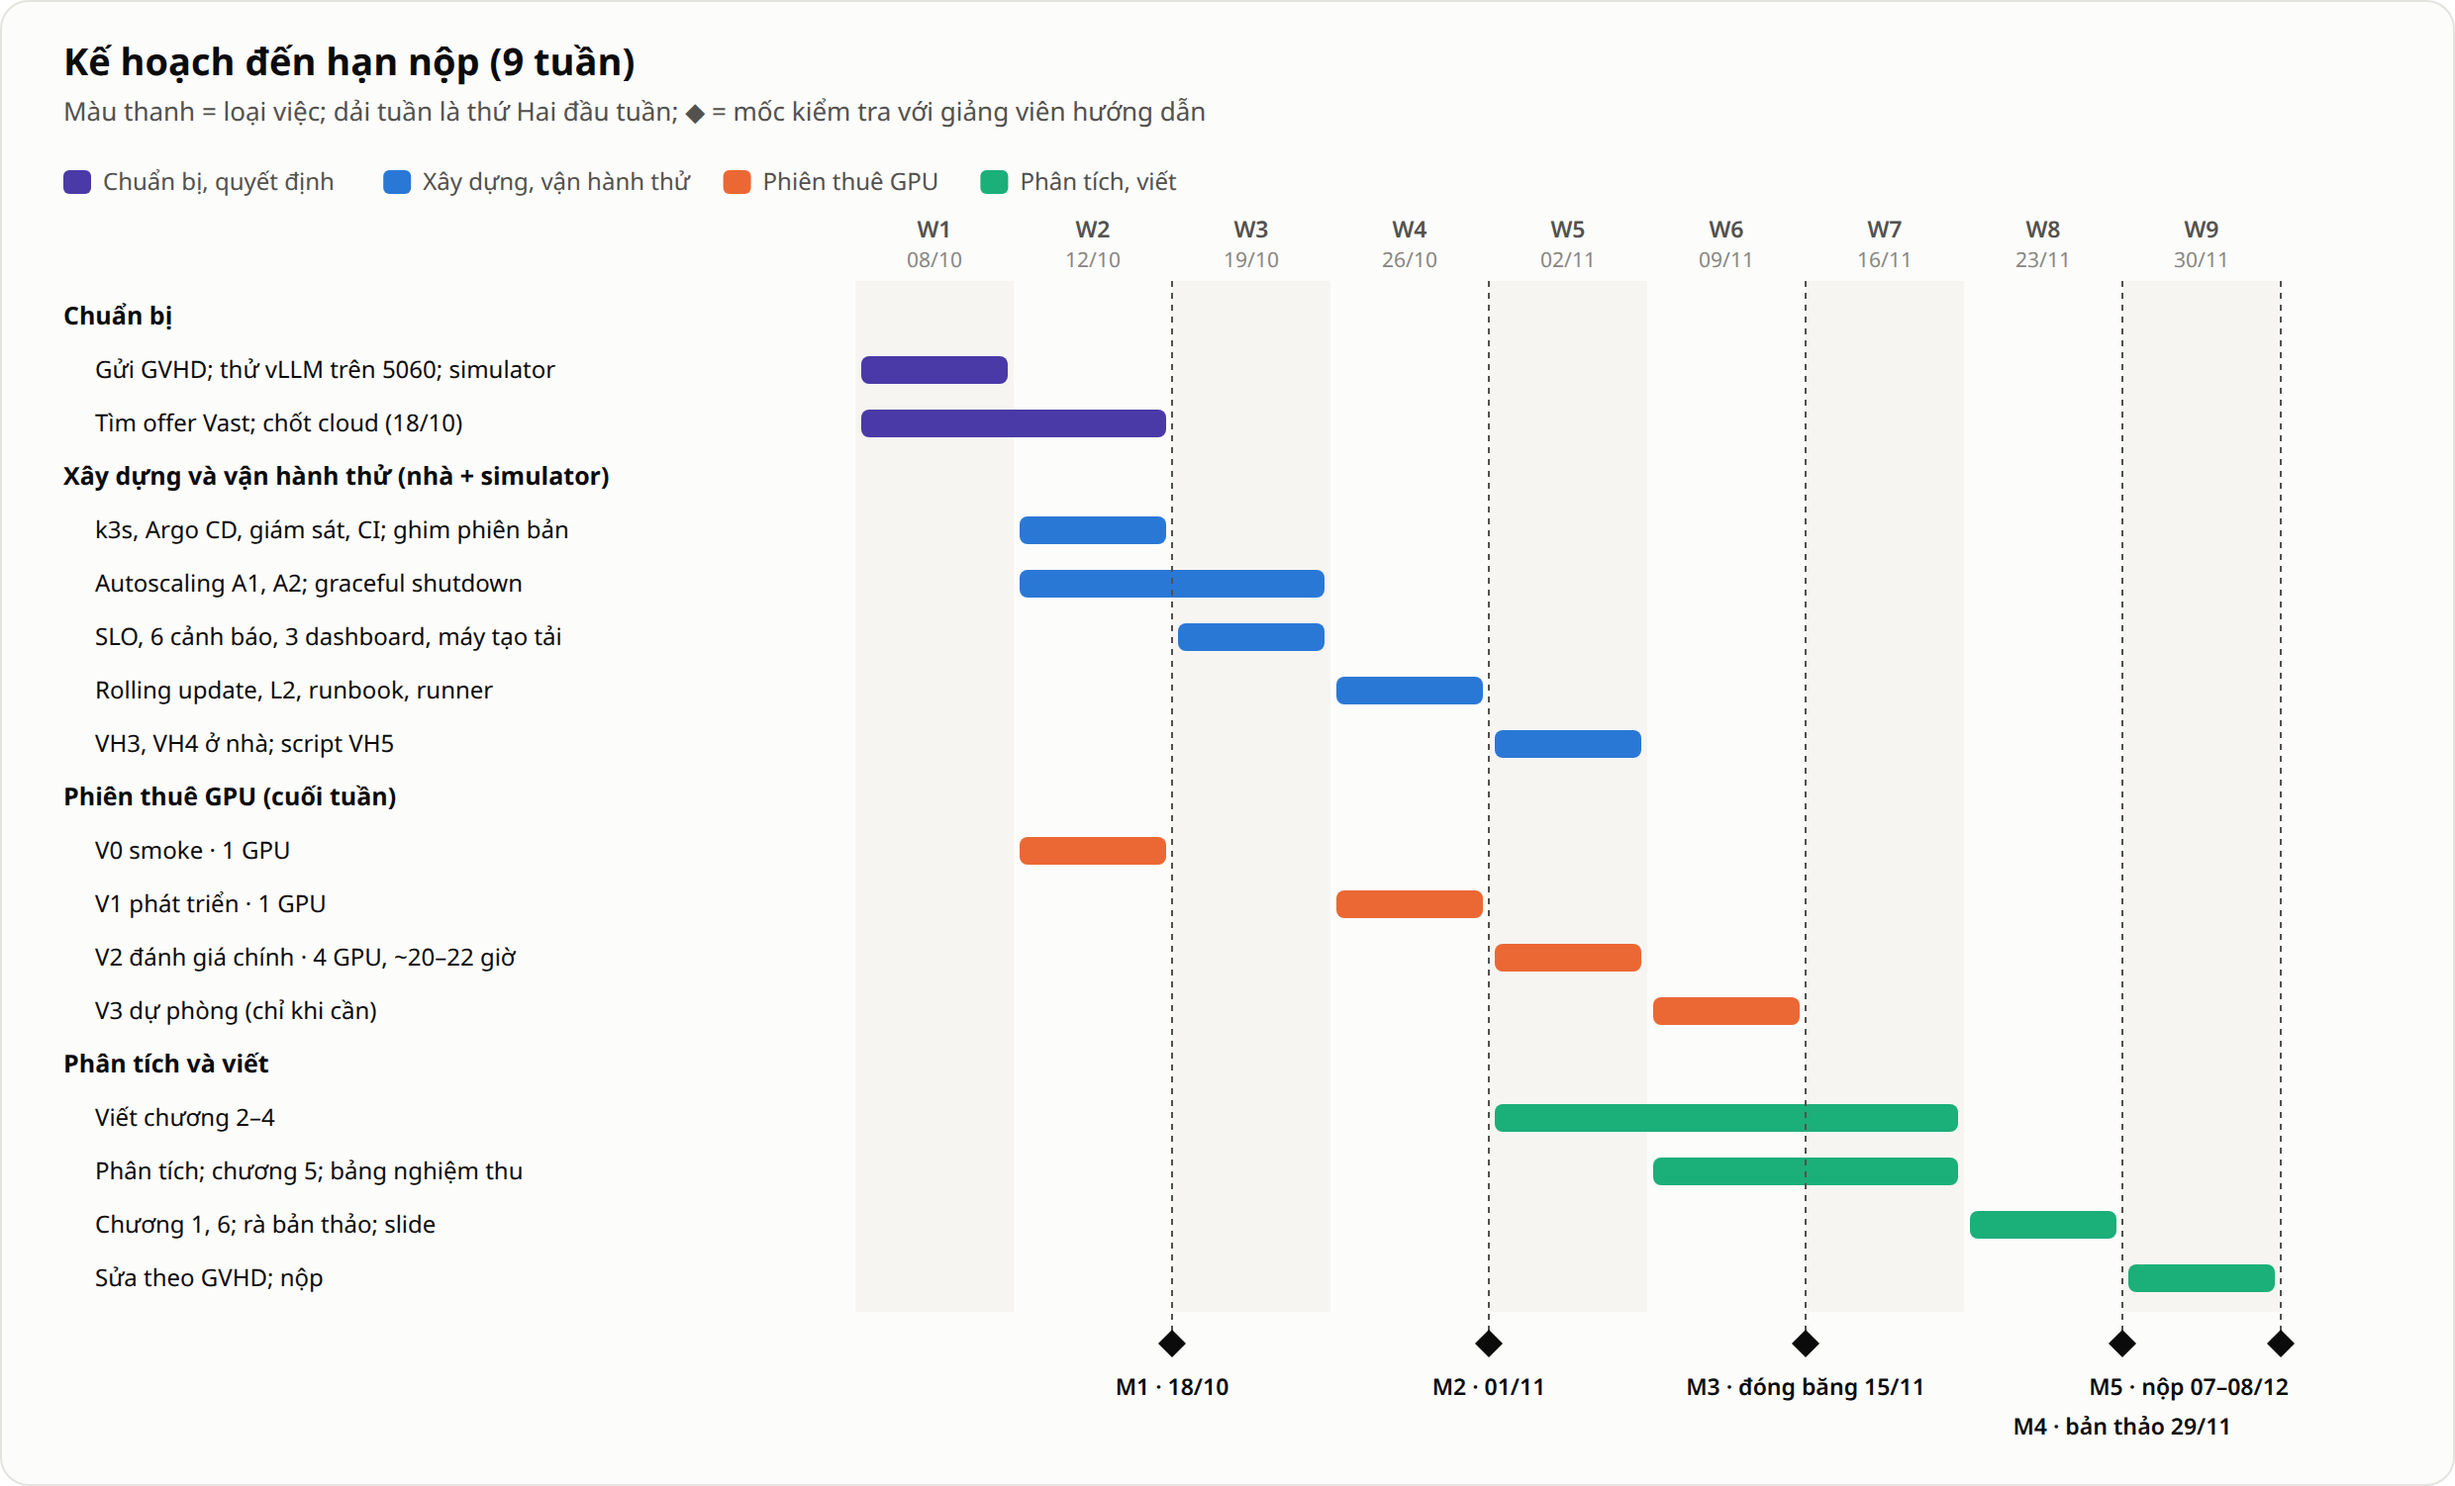
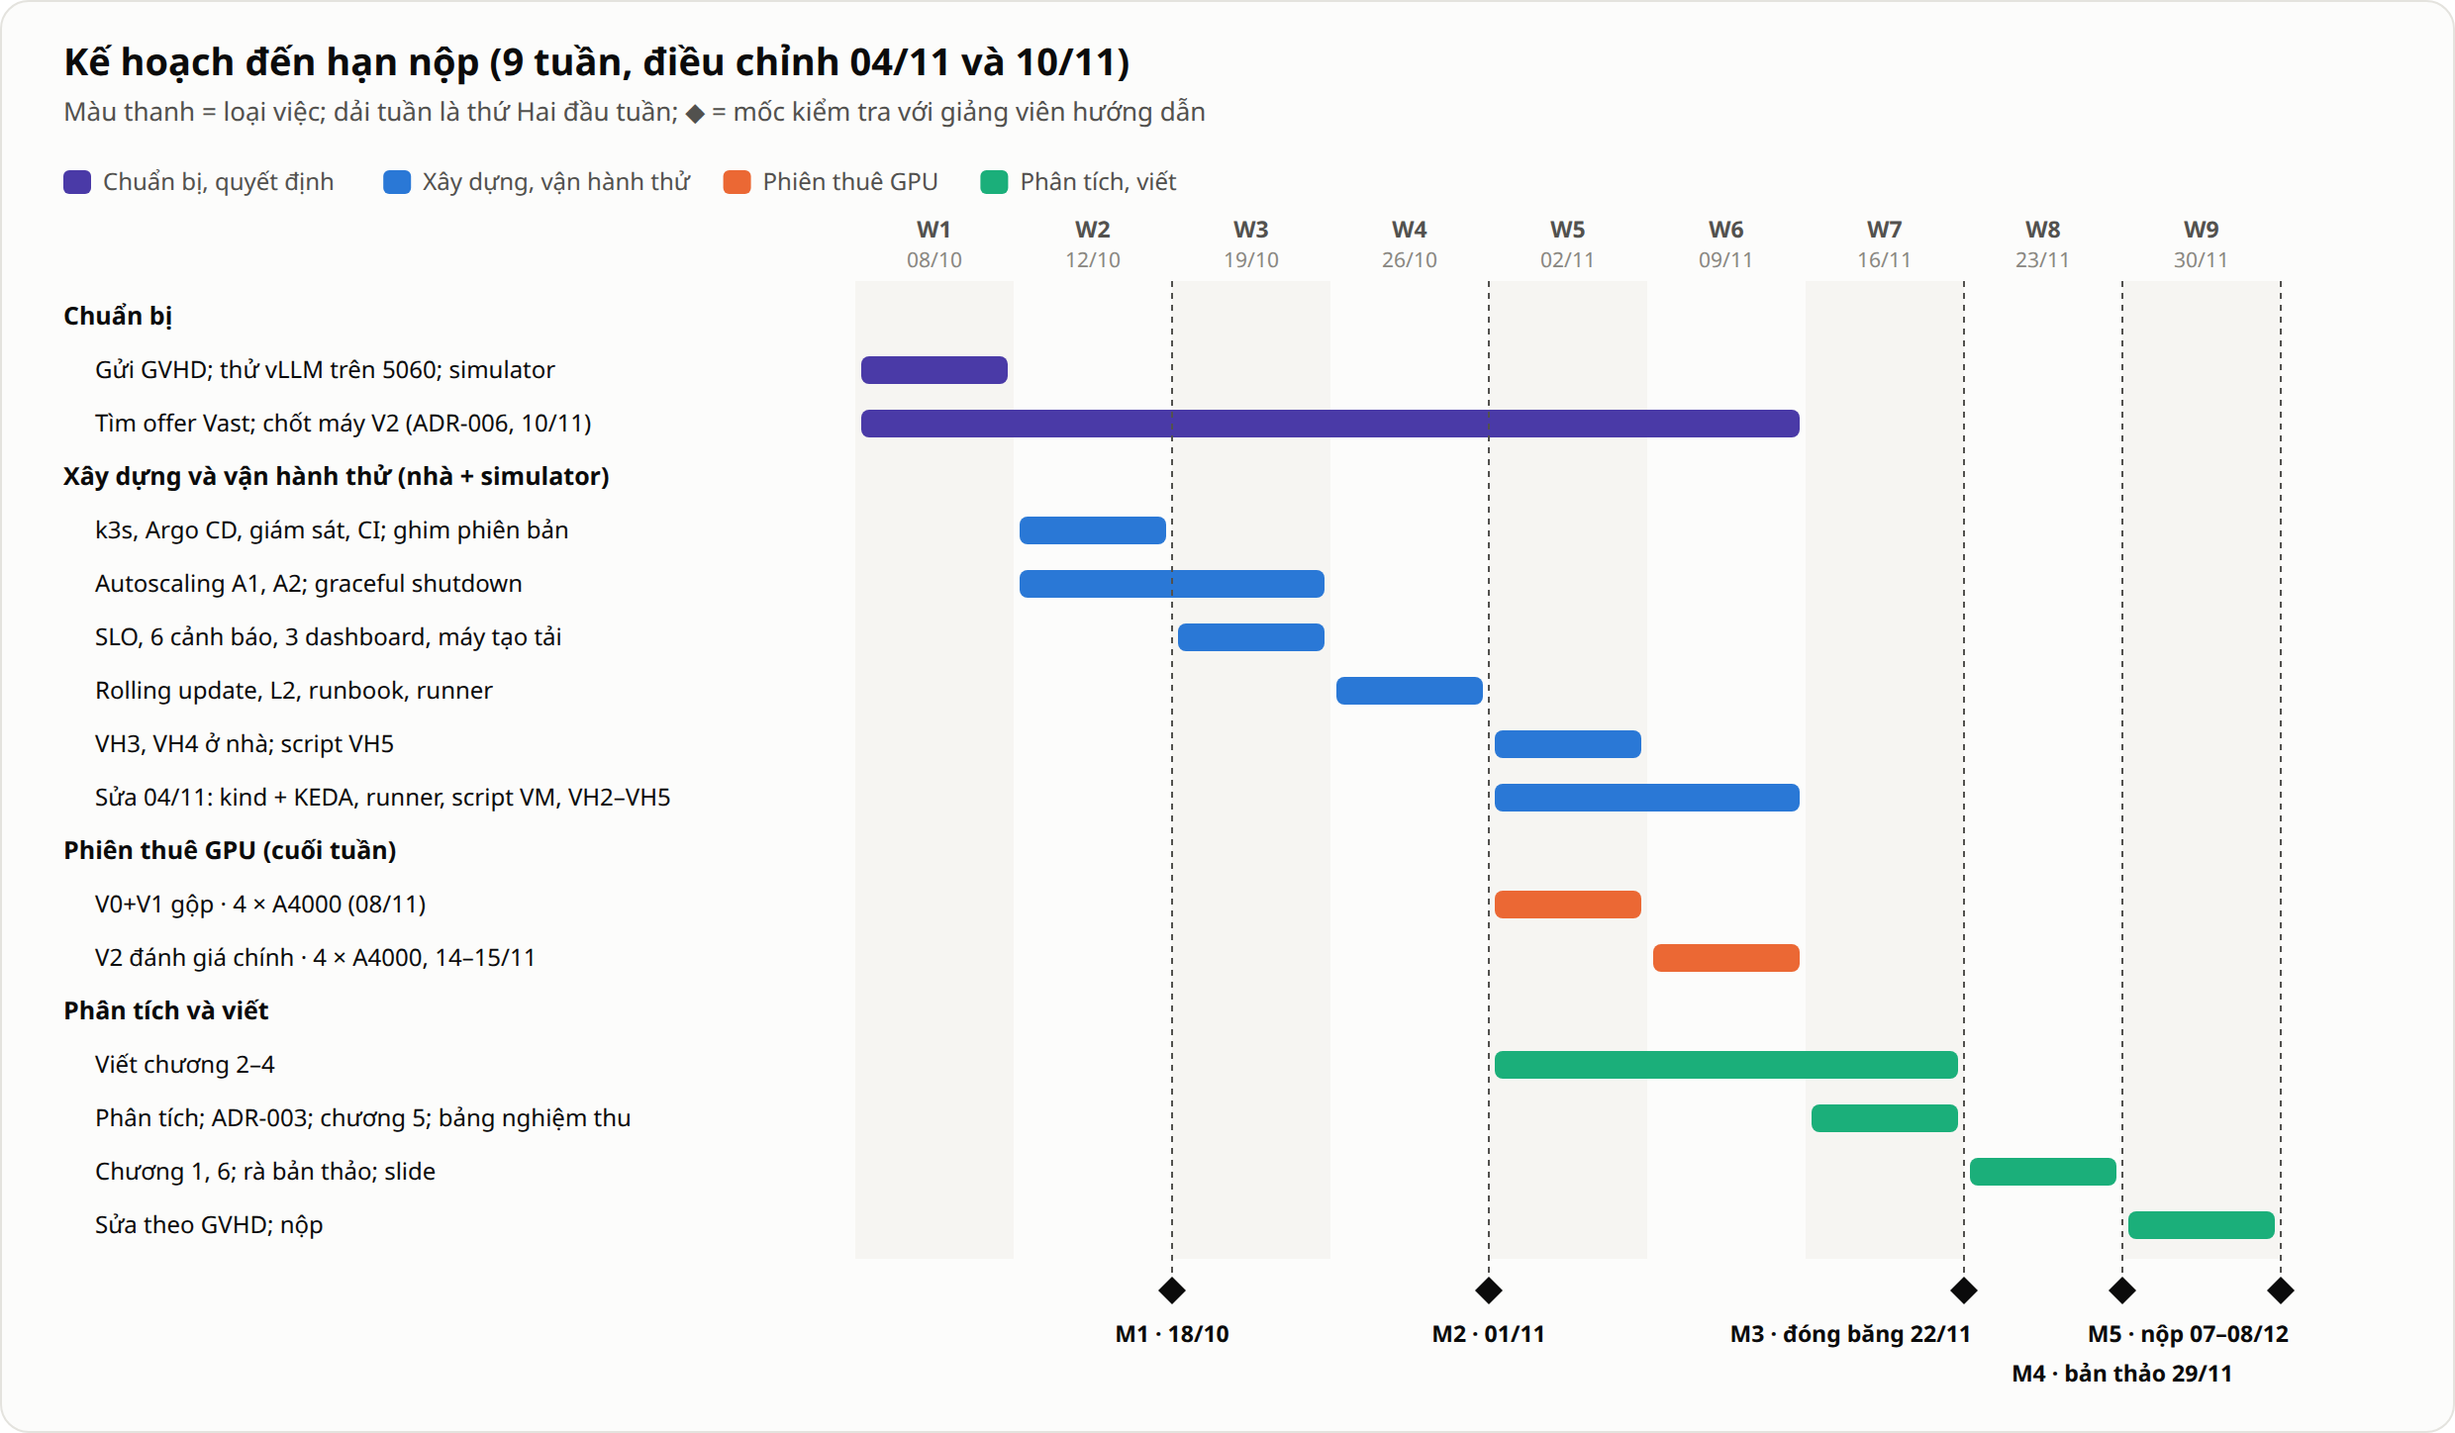
docs: redraw figures 6 and 9 for the A4000/3B setup and the post-04/11 schedule

diff --git a/docs/diagrams/build_diagrams.py b/docs/diagrams/build_diagrams.py
@@ -683,10 +683,10 @@ def fig_envs():
     s.rect(gx, gy, gw, gh, fill=WHITE, stroke=INK2, sw=1.4, rx=12)
     s.rich(gx + 16, gy + 26, [("Git repository", 650, INK), ("  nguồn sự thật duy nhất", 400, INK2)], size=13.5)
     rows = [("serving/base/", "Deployment vLLM, Service, probes"),
-            ("serving/overlays/", "home (1,5B) · cloud (7B)"),
+            ("serving/overlays/", "home (0,5B) · cloud-3b (3B)"),
             ("autoscaling/", "official: A2 · eval: S1, S4, A1"),
             ("observability/", "dashboard, cảnh báo, runbook"),
-            ("infra/", "script vastai + Ansible")]
+            ("infra/", "vast.sh + Ansible")]
     for i, (p, d) in enumerate(rows):
         y = gy + 50 + i * 18.5
         s.text(gx + 16, y, p, size=11.5, fill=INK, family=MONO)
@@ -696,19 +696,21 @@ def fig_envs():
     s.rect(32, 290, 580, 262, fill=GRAY_T, stroke=AXIS, rx=14)
     s.text(50, 318, "Tầng 1 · Xây dựng & vận hành thử", size=14.5, weight=700)
     s.text(50, 338, "Máy nhà + simulator · chi phí ≈ 0 · không dùng số liệu hiệu năng", size=12, fill=INK2)
-    nodes = [("PC", "k3s server", "RTX 5060 · 8 GB", None), ("Laptop", "k3s agent (nếu có)", "RTX 4050 · 6 GB", "5 4"),
-             ("Máy không GPU", "kind + simulator", None, None)]
-    for i, (n, sub, chip, dash) in enumerate(nodes):
-        bx = 52 + i * 188
-        s.rect(bx, 354, 168, 112, fill=WHITE, stroke=AXIS if not dash else INK2, dash=dash, rx=10)
+    # Cập nhật 12/11/2026: laptop 4050 không vào cluster nữa (time-slicing trên PC thay thế,
+    # ADR-004 §7); kind + simulator chạy trên máy làm việc.
+    nodes = [("PC", "k3s server · time-slicing 2 GPU replica", "RTX 5060 · 8 GB"),
+             ("Máy làm việc", "kind llm-sim · Ansible, kubectl", None)]
+    for i, (n, sub, chip) in enumerate(nodes):
+        bx = 52 + i * 282
+        s.rect(bx, 354, 262, 112, fill=WHITE, stroke=AXIS, rx=10)
         s.text(bx + 14, 378, n, size=13.5, weight=650)
         s.text(bx + 14, 396, sub, size=11.5, fill=INK2)
         if chip:
-            s.gpu_chip(bx + 14, 418, 140, 32, chip)
+            s.gpu_chip(bx + 14, 418, 234, 32, chip)
         else:
-            s.rect(bx + 14, 418, 140, 32, fill=BLUE_T, stroke="#c9dcf3", sw=1.2, rx=5)
-            s.text(bx + 84, 438.5, "llm-d-inference-sim", size=11, weight=600, fill=INK, anchor="middle")
-    for i, ln in enumerate(["Ubuntu server · k3s (Ansible) · device plugin · vLLM + Qwen2.5-1.5B",
+            s.rect(bx + 14, 418, 234, 32, fill=BLUE_T, stroke="#c9dcf3", sw=1.2, rx=5)
+            s.text(bx + 131, 438.5, "llm-d-inference-sim", size=11, weight=600, fill=INK, anchor="middle")
+    for i, ln in enumerate(["Ubuntu server · k3s (Ansible) · device plugin · vLLM + Qwen2.5-0.5B",
                             "Dùng cho: phát triển, kiểm thử chức năng, kịch bản vận hành",
                             "Simulator: scale 1 → 3, A4, drain node; truy cập cluster nhà qua Tailscale"]):
         s.text(52, 496 + i * 22, ln, size=12, fill=INK2)
@@ -720,13 +722,13 @@ def fig_envs():
            size=12, fill=INK2)
     s.rect(648, 354, 540, 112, fill=WHITE, stroke=AXIS, rx=10)
     s.text(662, 378, "VM 4 GPU · k3s single-node", size=13.5, weight=650)
-    s.text(662, 396, "4× RTX 4090 24 GB · CPU manager static", size=11.5, fill=INK2)
+    s.text(662, 396, "4× RTX A4000 16 GB · ≥ 20 vCPU · CPU manager static", size=11.5, fill=INK2)
     for i in range(4):
         s.gpu_chip(662 + i * 81, 418, 72, 32, f"GPU {i}")
     s.box(1000, 368, 176, 86, "Máy tạo tải + runner", ["lõi CPU riêng", "không qua mạng ngoài"],
           align="start", tsize=12.5, fill=BLUE_T, stroke="#c9dcf3")
     s.arrow([(1000, 434), (984, 434)], BLUE, sw=2, r=0)
-    for i, ln in enumerate(["Qwen2.5-7B-Instruct · ghim digest của vLLM và image",
+    for i, ln in enumerate(["Qwen2.5-3B-Instruct · ghim digest của vLLM và image",
                             "Dùng cho: đo năng lực, ma trận 17 lượt, cold start, kịch bản vận hành",
                             "Dữ liệu đẩy lên R2 sau mỗi lượt; huỷ instance ngay khi xong"]):
         s.text(648, 496 + i * 22, ln, size=12, fill=INK2)
@@ -734,7 +736,7 @@ def fig_envs():
     s.arrow([(520, 228), (520, 258), (322, 258), (322, 290)], INK2, sw=1.6)
     s.label(421, 252, "Argo CD sync · overlays/home", fill=INK)
     s.arrow([(720, 228), (720, 258), (918, 258), (918, 290)], INK2, sw=1.6)
-    s.label(868, 252, "thuê VM (vastai) → Ansible → Argo CD · overlays/cloud", fill=INK)
+    s.label(868, 252, "thuê VM (vast.sh) → Ansible → make cloud-platform · overlays/cloud-3b", fill=INK)
     s.save("06-moi-truong-trien-khai.svg")
 
 
@@ -748,21 +750,22 @@ def fig_gantt():
     phases = [
         ("Chuẩn bị", [
             ("Gửi GVHD; thử vLLM trên 5060; simulator", "gate", 1, 1),
-            ("Tìm offer Vast; chốt cloud (18/10)", "gate", 1, 2)]),
+            ("Tìm offer Vast; chốt máy V2 (ADR-006, 10/11)", "gate", 1, 6)]),
         ("Xây dựng và vận hành thử (nhà + simulator)", [
             ("k3s, Argo CD, giám sát, CI; ghim phiên bản", "build", 2, 2),
             ("Autoscaling A1, A2; graceful shutdown", "build", 2, 3),
             ("SLO, 6 cảnh báo, 3 dashboard, máy tạo tải", "build", 3, 3),
             ("Rolling update, L2, runbook, runner", "build", 4, 4),
-            ("VH3, VH4 ở nhà; script VH5", "build", 5, 5)]),
+            ("VH3, VH4 ở nhà; script VH5", "build", 5, 5),
+            ("Sửa 04/11: kind + KEDA, runner, script VM, VH2–VH5", "build", 5, 6)]),
         ("Phiên thuê GPU (cuối tuần)", [
-            ("V0 smoke · 1 GPU", "rent", 2, 2),
-            ("V1 phát triển · 1 GPU", "rent", 4, 4),
-            ("V2 đánh giá chính · 4 GPU, ~20–22 giờ", "rent", 5, 5),
-            ("V3 dự phòng (chỉ khi cần)", "rent", 6, 6)]),
+            # Cập nhật 10/11/2026 (Kế hoạch §1.1, ADR-006 C9): V0 và V1 gộp, làm 08/11;
+            # V2 dời sang 14–15/11; không còn V3.
+            ("V0+V1 gộp · 4 × A4000 (08/11)", "rent", 5, 5),
+            ("V2 đánh giá chính · 4 × A4000, 14–15/11", "rent", 6, 6)]),
         ("Phân tích và viết", [
             ("Viết chương 2–4", "write", 5, 7),
-            ("Phân tích; chương 5; bảng nghiệm thu", "write", 6, 7),
+            ("Phân tích; ADR-003; chương 5; bảng nghiệm thu", "write", 7, 7),
             ("Chương 1, 6; rà bản thảo; slide", "write", 8, 8),
             ("Sửa theo GVHD; nộp", "write", 9, 9)]),
     ]
@@ -772,8 +775,8 @@ def fig_gantt():
     H = top + rows * rh + 92
     W = 1240
     s = Svg(W, H, "Kế hoạch 9 tuần đến hạn nộp khoảng 08/12/2026: xây dựng và vận hành thử ở nhà W1–W4, "
-                  "đánh giá trong một lần thuê liền ở W5, đóng băng dữ liệu 15/11, viết luận văn tới W9")
-    s.header("Kế hoạch đến hạn nộp (9 tuần)",
+                  "đánh giá trong một lần thuê liền 14–15/11 (W6), đóng băng dữ liệu 22/11, viết luận văn tới W9")
+    s.header("Kế hoạch đến hạn nộp (9 tuần, điều chỉnh 04/11 và 10/11)",
              "Màu thanh = loại việc; dải tuần là thứ Hai đầu tuần; ◆ = mốc kiểm tra với giảng viên hướng dẫn")
     x = 32
     for k, desc in (("gate", "Chuẩn bị, quyết định"), ("build", "Xây dựng, vận hành thử"),
@@ -797,15 +800,16 @@ def fig_gantt():
             bw = (b - a + 1) * ww - 6
             s.rect(bx, y + 7, bw, 14, fill=PLAN_COLORS[kind], stroke=None, rx=4)
             y += rh
-    miles = [(2, "M1 · 18/10", 0), (4, "M2 · 01/11", 0), (6, "M3 · đóng băng 15/11", 0),
+    miles = [(2, "M1 · 18/10", 0), (4, "M2 · 01/11", 0), (7, "M3 · đóng băng 22/11", 0),
              (8, "M4 · bản thảo 29/11", 1), (9, "M5 · nộp 07–08/12", 0)]
     for wk, lab, lvl in miles:
         mx = gx0 + wk * ww
         s.line(mx, top - 4, mx, gy1 + 14, stroke=INK2, sw=1, dash="3 3")
         my = gy1 + 20
         s.polygon([(mx, my - 7), (mx + 7, my), (mx, my + 7), (mx - 7, my)], fill=INK)
-        anchor = "end" if wk == 9 else "middle"
-        s.text(mx + (4 if wk == 9 else 0), my + 26 + lvl * 20, lab, size=11.5, weight=600, anchor=anchor)
+        # M3 (W7) và M5 (W9) cùng hàng chữ: căn phải để hai nhãn không đè nhau.
+        anchor = "end" if wk in (7, 9) else "middle"
+        s.text(mx + (4 if wk in (7, 9) else 0), my + 26 + lvl * 20, lab, size=11.5, weight=600, anchor=anchor)
     s.save("09-ke-hoach.svg")
 
 
